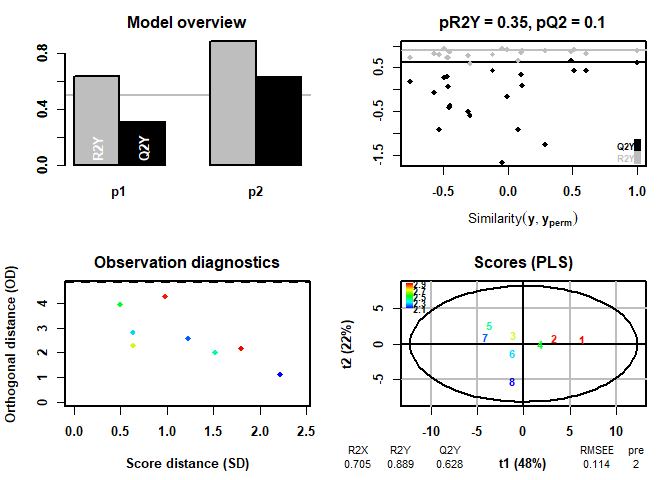
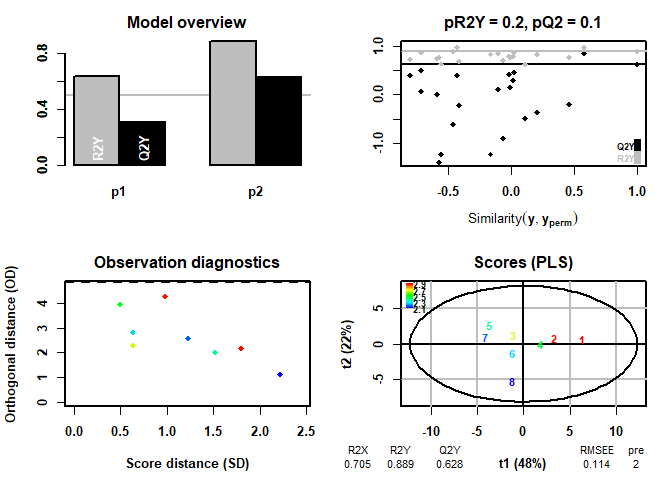
less verbose grob panel

diff --git a/README.md b/README.md
@@ -122,7 +122,7 @@ PLSR = ropls::opls(cytokines,
 #> 8 samples x 31 variables and 1 response
 #> standard scaling of predictors and response(s)
 #>       R2X(cum) R2Y(cum) Q2(cum) RMSEE pre ort pR2Y pQ2
-#> Total    0.705    0.889   0.628 0.114   2   0  0.2 0.1
+#> Total    0.705    0.889   0.628 0.114   2   0 0.25 0.1
 ```
 
 ![](tools/README-Run%20PLSR-1.png)
@@ -212,7 +212,7 @@ PLSR_LOOCV = opls_LOOCV(cytokines,
 #> 8 samples x 31 variables and 1 response
 #> standard scaling of predictors and response(s)
 #>       R2X(cum) R2Y(cum) Q2(cum) RMSEE pre ort pR2Y pQ2
-#> Total    0.705    0.889   0.628 0.114   2   0 0.35 0.1
+#> Total    0.705    0.889   0.628 0.114   2   0  0.2 0.1
 ```
 
 ![](tools/README-PLSR%20with%20LOOCV-1.png)
@@ -332,7 +332,7 @@ this easily using LinearRangePanel().
 loadings = LinearRange$Mass
 analytes = LinearRange[,2:10]
 
-LinearRangePanel(analytes = analytes,loadings = loadings,xlab = "Protein Mass [ug]")
+panel = LinearRangePanel(analytes = analytes,loadings = loadings,xlab = "Protein Mass [ug]")
 #> `geom_smooth()` using formula 'y ~ x'
 #> `geom_smooth()` using formula 'y ~ x'
 #> `geom_smooth()` using formula 'y ~ x'
@@ -346,19 +346,6 @@ LinearRangePanel(analytes = analytes,loadings = loadings,xlab = "Protein Mass [u
 
 ![](tools/README-Linear%20Range%20Panel-1.png)
 
-    #> TableGrob (4 x 3) "arrange": 10 grobs
-    #>           z     cells    name                grob
-    #> analyte1  1 (2-2,1-1) arrange      gtable[layout]
-    #> analyte2  2 (2-2,2-2) arrange      gtable[layout]
-    #> analyte3  3 (2-2,3-3) arrange      gtable[layout]
-    #> analyte4  4 (3-3,1-1) arrange      gtable[layout]
-    #> analyte5  5 (3-3,2-2) arrange      gtable[layout]
-    #> analyte6  6 (3-3,3-3) arrange      gtable[layout]
-    #> analyte7  7 (4-4,1-1) arrange      gtable[layout]
-    #> analyte8  8 (4-4,2-2) arrange      gtable[layout]
-    #> analyte9  9 (4-4,3-3) arrange      gtable[layout]
-    #>          10 (1-1,1-3) arrange text[GRID.text.744]
-
 We selected a loading of 1ug, which we can display on the graphs to help
 assess its suitability:
 
@@ -366,7 +353,7 @@ assess its suitability:
 loadings = LinearRange$Mass
 analytes = LinearRange[,2:10]
 
-LinearRangePanel(analytes = analytes,loadings = loadings,xlab = "Protein Mass [ug]",xintercept = 1)
+panel = LinearRangePanel(analytes = analytes,loadings = loadings,xlab = "Protein Mass [ug]",xintercept = 1)
 #> `geom_smooth()` using formula 'y ~ x'
 #> `geom_smooth()` using formula 'y ~ x'
 #> `geom_smooth()` using formula 'y ~ x'
@@ -379,19 +366,6 @@ LinearRangePanel(analytes = analytes,loadings = loadings,xlab = "Protein Mass [u
 ```
 
 ![](tools/README-Linear%20Range%20Panel%20vline-1.png)
-
-    #> TableGrob (4 x 3) "arrange": 10 grobs
-    #>           z     cells    name                 grob
-    #> analyte1  1 (2-2,1-1) arrange       gtable[layout]
-    #> analyte2  2 (2-2,2-2) arrange       gtable[layout]
-    #> analyte3  3 (2-2,3-3) arrange       gtable[layout]
-    #> analyte4  4 (3-3,1-1) arrange       gtable[layout]
-    #> analyte5  5 (3-3,2-2) arrange       gtable[layout]
-    #> analyte6  6 (3-3,3-3) arrange       gtable[layout]
-    #> analyte7  7 (4-4,1-1) arrange       gtable[layout]
-    #> analyte8  8 (4-4,2-2) arrange       gtable[layout]
-    #> analyte9  9 (4-4,3-3) arrange       gtable[layout]
-    #>          10 (1-1,1-3) arrange text[GRID.text.1150]
 
 In this example, we would have high confidence in measured values for
 pAtf2, pMek1, pJnk, pErk1/2, pHSP27, and pStat3. p-p38 is outside of its
